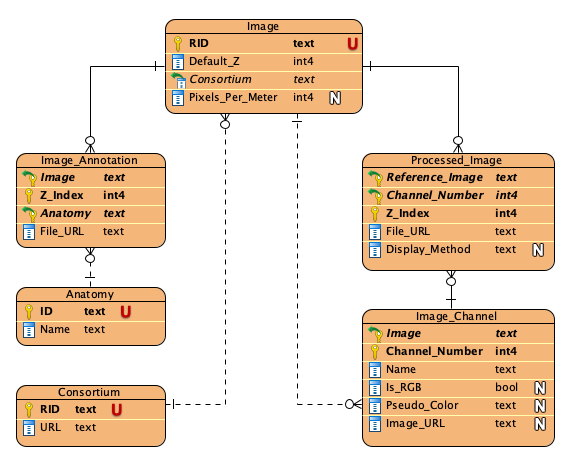
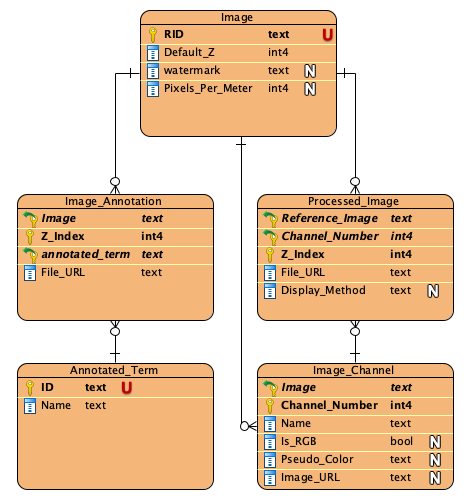
viewer app: fix some issues in the config documentation

diff --git a/viewer/viewer-config-sample.js b/viewer/viewer-config-sample.js
@@ -1,27 +1,17 @@
 var viewerConfigs = {
     "*": {
-        main_image: {
-            // DEPRECATED This is here for just backward compatibilty and should not be used.
-            /**
-             * if defined and value is none-empty, we will not send any extra request for image channel info
-             * and use the value stored in this column.
-             *
-             * As a hack, if the stored value has query parameters, we will only
-             * use the query parameters. Otherwise it will use the stored value as is.
-             */
-            uri_column_name: "uri",
-
+        "image": {
             /**
              * the z-index of displayed main image. if the z-plane image doesn't change,
              * this value will be used for fetching and storing the annotations.
              */
-            default_z_index_column_name: "Default_Z",
+            "default_z_index_column_name": "Default_Z",
 
             /**
              * the column that has the pixel per meter value. If value is defined,
              * it will be passed without any modifications to openseadragon-viewer
              */
-            pixel_per_meter_column_name: "Pixels_Per_Meter",
+            "pixel_per_meter_column_name": "Pixels_Per_Meter",
 
             /**
              * The following watermark attributes are used for the watermark
@@ -29,29 +19,41 @@ var viewerConfigs = {
              */
 
             // if the watermark is defined in the same table, use this attribute
-            watermark_column_name: "",
+            // if empty, we will not use it
+            "watermark_column_name": "",
 
             // if the watermakr is defined in another table that has fk to image,
             // use the following attribute
-            watermark_foreign_key_visible_column_name: "Pq797msQqRnD3Je3Jp01HQ",
-            watermark_foreign_key_data_column_name: "URL",
+            // TODO: need a better way to specify better foreignkey path
+            "watermark_foreign_key_visible_column_name": "Pq797msQqRnD3Je3Jp01HQ",
+            "watermark_foreign_key_data_column_name": "URL",
 
             // what should be displayed in the head title (the browser tab)
-            head_title_markdown_pattern: "",
+            "head_title_markdown_pattern": "",
 
-            // what should be displayed in the page title
-            page_title_markdown_pattern: "",
+            // what should be displayed in the page title in full screen mode (non-iframe)
+            "page_title_markdown_pattern": "",
+
+            /**
+             * @DEPRECATED This is here for just backward compatibilty and should not be used.
+             * if defined and value is none-empty, we will not send any extra request for image channel info
+             * and use the value stored in this column.
+             *
+             * As a hack, if the stored value has query parameters, we will only
+             * use the query parameters. Otherwise it will use the stored value as is.
+             */
+            "legacy_osd_url_column_name": "uri", // TODO rename in code
         },
         /**
          * the table that stores each individual image for each channel in each z-plane
          */
-        processed_image: {
+        "processed_image": {
             // procesed image table
-            schema_name: "Gene_Expression",
-            table_name: "Processed_Image",
+            "schema_name": "Gene_Expression",
+            "table_name": "Processed_Image",
 
-            // the sort criteria
-            column_order: [{
+            // how to sort the processed_image records
+            "column_order": [{
                 "column": "Z_Index",
                 "descending": false
             }, {
@@ -60,85 +62,95 @@ var viewerConfigs = {
             }],
 
             // where to filter based on z_index and the image
-            z_index_column_name: "Z_Index",
-            reference_image_column_name: "Reference_Image",
+            "z_index_column_name": "Z_Index",
+            "reference_image_column_name": "Reference_Image",
 
             // the actual location of image file (info.json, ImageProperties.xml, etc)
-            image_url_column_name: "File_URL",
+            "image_url_column_name": "File_URL",
 
             //{"source": [{"outbound": ["Gene_Expression", "Processed_Image_Reference_Image_Channel_Number_fkey"]}, "RID"], "entity": true}
-            channel_visible_column_name: "AeweZsAMVSdW7Vf91boEfw",
+            // TODO: this will be removed with the multi-z support
+            "channel_visible_column_name": "AeweZsAMVSdW7Vf91boEfw",
 
             // what is the display method (`iiif`, `dzi`, etc)
-            display_method_column_name: "Display_Method",
+            "display_method_column_name": "Display_Method",
 
             // how to generate the url
-            iiif_version: "2", // if not passed, `2` will be used
-            image_url_pattern: {
+            "iiif_version": "2", // if not passed, `2` will be used
+            "image_url_pattern": {
                 "iiif": "/iiif/{{{iiif_version}}}/{{#encode url}}{{/encode}}/info.json"
             }
         },
         /**
          * the table that stores the channel data
          */
-        image_channel: {
+        "image_channel": {
             // channel table
-            schema_name: "Gene_Expression",
-            table_name: "Image_Channel",
+            "schema_name": "Gene_Expression",
+            "table_name": "Image_Channel",
 
             // the sort criteria
-            column_order: [{
+            "column_order": [{
                 "column": "Channel_Number",
                 "descending": false
             }],
 
-            // the fk column to main_image
-            reference_image_column_name: "Image",
+            // the fk column to image
+            "reference_image_column_name": "Image",
 
             // the channelName column
-            channel_name_column_name: "Name",
+            "channel_name_column_name": "Name",
 
             // the pseudoColor column (the value must be in color hex format)
-            pseudo_color_column_name: "Pseudo_Color",
+            "pseudo_color_column_name": "Pseudo_Color",
 
             // a boolean column that signals whether the image is greyscale or rgb
-            is_rgb_column_name: "Is_RGB",
+            "is_rgb_column_name": "Is_RGB",
 
-            // DEPRECATED This is here for just backward compatibilty and should not be used.
-            // the actual location of image file (info.json, ImageProperties.xml, etc)
-            image_url_column_name: "Image_URL"
+            /**
+             * @DEPRECATED This is here for just backward compatibilty and should not be used.
+             * the actual location of image file (info.json, ImageProperties.xml, etc)
+             */
+            "image_url_column_name": "Image_URL"
         },
         /**
          * the table that stores the annotation data
          */
-        image_annotation: {
+        "image_annotation": {
             // annotation table
-            schema_name: "Gene_Expression",
-            table_name: "Image_Annotation",
+            "schema_name": "Gene_Expression",
+            "table_name": "Image_Annotation",
 
             // fk to image table in annotation table
-            reference_image_visible_column_name: "okfHjL8_zZzvahdjNJjz-Q",
-            reference_image_column_name: "Image",
+            "reference_image_visible_column_name": "okfHjL8_zZzvahdjNJjz-Q",
+            "reference_image_column_name": "Image",
 
             // the asset column that has the annotation
-            overlay_column_name: "File_URL",
-            overlay_hatrac_path: "resources/gene_expression/annotations",
+            "overlay_column_name": "File_URL",
+            "overlay_hatrac_path": "resources/gene_expression/annotations",
 
             // the columns that are used internally and should be removed from the entry form
-            z_index_column_name: "Z_Index",
-            channels_column_name: "Channels",
+            // TODO should be improved
+            "z_index_column_name": "Z_Index",
+            "channels_column_name": "Channels",
 
-            // anatomy fk in annotation table
-            annotated_term_displayname: "Anatomy",
-            annotated_term_column_name: "Anatomy",
-            annotated_term_visible_column_name: "Y7oiVf4tLQPtUWQRrtF-KQ",
-            annotated_term_foreign_key_constraint: ["Gene_Expression", "Image_Annotation_Anatomy_fkey"],
+            /**
+             * annoated term fk in annotation table
+             * This information is used to ensure the combination of image, annotated_term, z_index are unique
+             */
+            "annotated_term_displayname": "Anatomy",
+            "annotated_term_column_name": "Anatomy",
+            "annotated_term_visible_column_name": "Y7oiVf4tLQPtUWQRrtF-KQ",
+            "annotated_term_foreign_key_constraint": ["Gene_Expression", "Image_Annotation_Anatomy_fkey"],
 
-            // anatomy table
-            annotated_term_table_name: "Anatomy",
-            annotated_term_table_schema_name: "Vocabulary",
-            annotated_term_id_column_name: "ID",
-            annotated_term_name_column_name: "Name"
+            /**
+             * annoated term table
+             * This information is used to display proper value (id vs name)
+             */
+            "annotated_term_table_name": "Anatomy",
+            "annotated_term_table_schema_name": "Vocabulary",
+            "annotated_term_id_column_name": "ID",
+            "annotated_term_name_column_name": "Name"
         }
     }
 }

diff --git a/viewer/viewer.app.js b/viewer/viewer.app.js
@@ -290,10 +290,10 @@
 
                 image.entity = imageTuple.data;
                 context.imageID = image.entity.RID;
-                imageURI = image.entity[imageConfig.uri_column_name];
+                imageURI = image.entity[imageConfig.legacy_osd_url_column_name];
 
                 if (!imageURI) {
-                    console.log("The " + imageConfig.uri_column_name + " value is empty in Image table.");
+                    console.log("The " + imageConfig.legacy_osd_url_column_name + " value is empty in Image table.");
                 }
 
                 // TODO this feels hacky

diff --git a/viewer/viewer.utils.js b/viewer/viewer.utils.js
@@ -28,7 +28,7 @@
     })
 
     .constant("defaultViewerConfig", {
-        main_image: {},
+        image: {},
         processed_image: {},
         image_annotation: {},
         image_channel: {}
@@ -89,7 +89,7 @@
             }
 
             function getImageConfig() {
-                return _getConfigAttr("main_image");
+                return _getConfigAttr("image");
             }
 
             function getProcesssedImageConfig() {

diff --git a/docs/viewer/viewer-app.md b/docs/viewer/viewer-app.md
@@ -1,31 +1,34 @@
 # Image viewer
 
-In this section you can find all the information related to 2D image viewer application.
+Chaise 2D image viewer utilizes [OpenSeadragon](https://openseadragon.github.io/) to provide support for:
+
+- **Greyscale and RGB images**. If an image is marked
+as greyscale, data-modelers can define a default _pseudo color_ that will be used
+to properly add color to the image. Users have the ability to change that color
+using the appropriate channel UI.
+- **Single or multiple channel images**. In case of multi-channel images, viewer app 
+  will blend the images together. Users have the ability to toggle images and manipulate
+  the blending.
+- **Image annotations** that overlay on top of main images. If data-modelers have 
+  properly configured the application, viewer app will fetch and display the annotations. 
+  Users have the ability to edit, delete, or create new annotation.
+- (_not implemented_) **Multi-z images**. If data-modelers have properly configured the application,
+  viewer app provides a mechanism to navigate through the z-plane to
+  display the images with different z-indices.
+- **IIIF, DZI, and other browser compatible images**. Viewer app uses the location
+of the images to find the appropriate mechanism in order to fetch the image based on their types.
+In case of IIIF images, the proper image API will be used for fetching the tile images,
+while DZI relies on precomputed tile images to be present in the file system.
+
 
 ## Table of contents
 
-- [Features](#features)
 - [Dependencies](#dependencies)
 - [Deploying](#deploying)
 - [How it works](#how-it-works)
   * [Query parameters](#query-parameters)
   * [Configuration](#configuration)
 - [Testing](#testing)
-
-## Features
-
-The viewer app is capable of:
-- Displaying one or more images by blending them together. We call each image a
-__channel__. So a view with multiple image is referred to as a __multi-channel__ view.
-- (_not implemented_) Offering a multi-z view for the images that have
-the proper z-plane data. Users can navigate from one z-index to another if they choose to.
-- Allowing the manipulation of color for the greyscale channels. If an image is marked
-as greyscale, data-modelers can define a default __pseudo color__ that will be used
-to properly add color to the image. Users have the ability to change that color
-using the appropriate channel UI.
-- Adding overlay on top of images. We call these overlays __image annotations__.
-If data-modelers have properly configured the application, viewer app will fetch
-and display the annotations. Users have the ability to edit, delete, or create new annotation.
 
 ## Dependencies
 
@@ -79,38 +82,48 @@ You need to deploy both chaise and openseadragon-viewer to make sure viewer app 
 
 ## How it works
 
-Chaise viewer app is a user-friendly interface to openseadragon-viewer.  In the end,
-Chaise must provide the appropriate parameters to that application. Chaise derives
-the list of parameters from the following sources:
+Chaise viewer app uses ERMrest to fetch the proper metadata and utilizes
+openseadragon-viewer to render the fetched imaging metadata, and provide UI tools 
+so users can interact with the image. To use openseadragon-viewer, viewer
+app must provide some parameters. The following are different sources for deriving 
+these parameters:
 
-- URL query parameters that are passed to the viewer app. URL query parameters are
-  mainly used to ignore what's stored in the database.
+- URL query parameters that are passed to viewer app. URL query parameters have
+  priority over other ways of providing parameters, and override the behavior.
 
-- The stored data in the database. For more information about how the database
+- Metadata stored in ERMrest. For more information about how the database
   model works and can be configured please refer to [configuration  document](viewer-config.md).
 
 
 ### Query parameters
 
-As it was mentioned, query parameters are used to avoid sending queries to database.
-You should only use query parameters in either of these cases:
-- The required model and data are not defined in the database
+Different browsers have different rules about the length limitation of query parameters.
+Users can also manipulate the query parameters. So we generally advise against 
+usage of query parameters. Although, in some cases query parameters are the 
+most convenient way to use viewer app. For example:
+- The required model and metadata are not defined in the database and you just
+  want to show an image without the extra features
   (Refer to [viewer-config.js documentation](viewer-config.md) for more information
-  about the required model structure).
-- You want to show only a small set of images or annotations.
+  about the required model structure.)
+- You want to override the default behavior and show only a small set of images or annotations. For example, 
+  assume in the database the image has multiple annotations and you just want to 
+  show that one specific annotation in a record page. You can provide an iframe 
+  with a query parameter that specifies the annotation url. 
 - For debugging or testing.
-- Modifying the default value of a parameter.
+- Modifying the default value of a general parameter.
 
 Query parameters will be passed without any modification to the openseadragon-viewer.
 So you can use any of the parameters that are defined in the
 [openseadragon-viewer usage document](https://github.com/informatics-isi-edu/openseadragon-viewer/blob/master/docs/user-docs/usage.md). There are two categories of parameteres:
 
-- **Channel parameters**: these parameters provide information about the image channel.
+<!-- TODO add links to each section -->
+
+- [**Channel parameters**](https://github.com/informatics-isi-edu/openseadragon-viewer/blob/master/docs/user-docs/usage.md#channel-parameters): these parameters provide information about the image channel.
   The main channel parameter is `url`. The value of this parameter must be the location
   of the image file (`info.json`, `ImageProperties.xml`, etc) and if present, we will
   ignore the data stored in database.
 
-- **General parameters**: parameters that will not affect the actual displayed image data,
+- [**General parameters**](https://github.com/informatics-isi-edu/openseadragon-viewer/blob/master/docs/user-docs/usage.md#general-parameters): parameters that will not affect the actual displayed image data,
   and will modify other parts of the page. These parameters can be used in conjunction
   of image data stored in the database.
 

diff --git a/docs/viewer/viewer-config.md b/docs/viewer/viewer-config.md
@@ -14,15 +14,15 @@ The following is the assumed model of a fully-configured viewer app:
 (All the table and column names are configurable)
 
 - `Image` table is the entry point of the viewer app.
-- The `Consortium` table is optional. It's only used for extracting the watermark.
-  The watermark will be displayed in the image screenshot.
 - `Processed_Image` table is the actual table that stores the data for each image channels
   in each z-plane. For example if there's a image with two stored z-indices and that has
   two channels, there will be 4 records of `Processed_Image` table.
 - `Image_Channel` table stores the channel information (whether it's greyscale,
-  the pseudo color, name,)
+  the pseudo color, channel name)
 - `Image_Annotation` table stores the annotations. It MUST have an asset column that
   will be used for storing the annotation files.
+- `Annotated_Term` is the term that each annotation will be associated with.
+  For each image in each z-index, there can only be one annotation per term.
 
 ## Configuration
 
